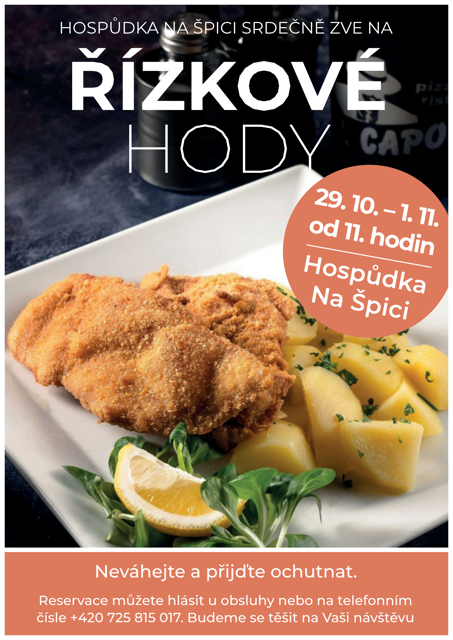
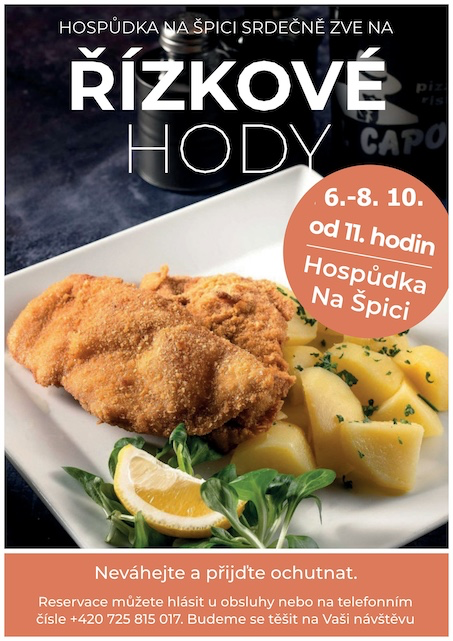
events lightbox test

diff --git a/aktuality.html b/aktuality.html
@@ -64,8 +64,9 @@
 <section class="events__news"> 
 
     <div class="events__news-group four">
-        <p> </p>
-        <img class="events__news-group img" src="images/events/veprove_hody Medium.png" alt="leták veprove hody"> 
+        <h3> Vepřové hody <br> 17. - 18. 11. od 11h. </h3>
+        <p> Karaoke v sobotu 18.11. od 20h. </p>
+        <a data-fslightbox="" href="images/events/veprove_hody Medium.png"> <img class="events__news-group img" src="images/events/veprove_hody Medium.png" alt="leták veprove hody"> </a>
         <p class="events__news-group-display"> Zobrazit menu</p>
         <img class="events__news-group img-menu hidden" src="images/events/vepr_hody.png" alt="Leták vepřové hody menu">
     </div>
@@ -73,24 +74,25 @@
     
 
     <div class="events__news-group three">
-    <p> </p>  
-    <img class="events__leaflets-img two" src="images/events/svatomartinska_husa Medium.png" alt="Leták husa">
+    <h3> Svatomartinská husa 09.-12. 11. od 11h.</h3>
+    <p>Nezapomeňte si objednat husu a udělat rezervaci.   </p>  
+    <a data-fslightbox="" href="images/events/svatomartinska_husa Medium.png"><img class="events__leaflets-img two" src="images/events/svatomartinska_husa Medium.png" alt="Leták husa"></a>
     </div>
     
 
-    <div class="events__news-group one">
-    <p> </p>
-    <img class="events__news-group img" src="images/events/rizkove_hody Medium.png" alt="Leták řízkové hody">
-    <p class="events__news-group-display">Zobrazit menu</p>
-    <img class="events__news-group img-menu hidden" src="images/events/rizky_menu.png" alt="Leták řizkove hody menu">
-    </div>
-
     <div class="events__news-group zero"> 
-    <p> Gulášové hody od 20.-22.10. od 11h. Teště se na </p>
-    <img class="events__news-group img" src="images/events/gulasove_hody Medium.png" alt="Leták gulášové hody">
+    <h3> Gulášové hody <br> 20. - 22. 10. od 11h. <br> Až 5 druhů gulášů! </h3>
+    <a data-fslightbox="" href="images/events/gulasove_hody Medium.png"><img class="events__news-group img" src="images/events/gulasove_hody Medium.png" alt="Leták gulášové hody"></a>
     <p class="events__news-group-display"> Zobrazit menu</p>
     <img class="events__news-group img-menu hidden" src="images/events/gulas_menu.jpeg" alt="Leták gulášové hody menu">
     </div>
+
+    <div class="events__news-group one">
+    <h3> Řízkové hody <br> !!!Změna termínu!!! <br> 06. - 08. 10. od 11h.</h3>
+    <a data-fslightbox="" href="images/events/rizkove_hody Medium.png"><img class="events__news-group img" src="images/events/rizkove_hody Medium.png" alt="Leták řízkové hody"></a>
+    <p class="events__news-group-display">Zobrazit menu</p>
+    <img class="events__news-group img-menu hidden" src="images/events/rizky_menu.png" alt="Leták řizkove hody menu">
+     </div>
 
 
    
@@ -103,22 +105,17 @@
 
 
 
-    <section class="events__leaflets"> 
-        <div class="events__leaflets-wrapper"> 
-<img class="events__leaflets-img main" src="images/events/seznam_akci.png" alt="Seznam akcí">
-<img class="events__leaflets-img zero" src="images/events/gulasove_hody Medium.png" alt="Leták gulášové hody">
-<img class="events__leaflets-img zero menu hidden" src="images/events/gulas_menu.jpeg" alt="Leták gulášové hody menu">
-<img class="events__leaflets-img one" src="images/events/rizkove_hody Medium.png" alt="Leták řízkové hody">
-<img class="events__leaflets-img one menu hidden" src="images/events/rizky_menu.png" alt="Leták řizkove hody menu">
-<img class="events__leaflets-img two" src="images/events/svatomartinska_husa Medium.png" alt="Leták husa">
-<img class="events__leaflets-img three" src="images/events/veprove_hody Medium.png" alt="leták veprove hody"> 
-<img class="events__leaflets-img three menu hidden" src="images/events/vepr_hody.png" alt="Leták vepřové hody menu">
-<img class="events__leaflets-img four" src="images/events/zverinove_hody Medium.png" alt="letak zvěřinové hody">
-<img class="events__leaflets-img four menu hidden" src="" alt="Leták zvěřinové menu">
-<img class="events__leaflets-img five" src="images/events/masopust Medium.png" alt="leták masopust">
-<img class="events__leaflets-img five menu hidden" src="" alt="Leták masopust menu">
-        </div>
-    </section>
+<section class="events__leaflets"> 
+    <div class="events__leaflets-wrapper"> 
+        <img class="events__leaflets-img main" src="images/events/seznam_akci.png" alt="Seznam akcí">
+        <img class="events__leaflets-img zero" src="images/events/rizkove_hody Medium.png" alt="Leták řízkové hody">
+        <img class="events__leaflets-img one" src="images/events/gulasove_hody Medium.png" alt="Leták gulášové hody">
+        <img class="events__leaflets-img two" src="images/events/svatomartinska_husa Medium.png" alt="Leták husa">
+        <img class="events__leaflets-img three" src="images/events/veprove_hody Medium.png" alt="leták veprove hody"> 
+        <img class="events__leaflets-img four" src="images/events/zverinove_hody Medium.png" alt="letak zvěřinové hody">
+        <img class="events__leaflets-img five" src="images/events/masopust Medium.png" alt="leták masopust">
+    </div>
+ </section>
         
 
         

diff --git a/css/style-other.css b/css/style-other.css
@@ -897,12 +897,19 @@
   margin-top: 4px;
 }
 
+.events__news-group:nth-child(odd) {
+  background-color: rgb(79, 25, 11);
+  color: rgb(240, 226, 207);
+}
+
 .events__news-group {
-  display: flex;
+  padding: 10px 5px;
+  margin: 10px 0px;
+  border-radius: 5px;
 }
 
 .events__news-group img {
-  width: 30%;
+  width: 60%;
 }
 
 @media screen and (min-width: 700px) {

diff --git a/scss/_events-other.scss b/scss/_events-other.scss
@@ -2,11 +2,18 @@
 
 //*AKTUALITY *
 
+.events__news-group:nth-child(odd){
+    background-color: color.$c-text;
+    color: color.$c-main;
+}
+
 .events__news-group {
-    display:flex;
+    padding: 10px 5px;
+    margin:10px 0px;
+    border-radius: 5px;
 }
 .events__news-group img {
-    width:30%;  
+    width:60%;  
 }
 
 .events__news-group-display {
